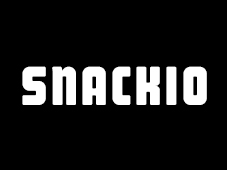
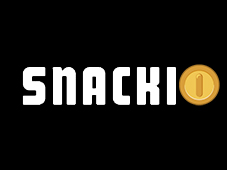
Game Introduction

Changed region(s): [[0.0925, 0.3529, 0.9868, 0.6471], [0.37, 0.3824, 0.4626, 0.4118]]

diff --git a/src/main/resources/CSS/menus.css b/src/main/resources/CSS/menus.css
@@ -24,8 +24,8 @@
     -fx-opacity: 0.6;
     -fx-text-fill: black;
     -fx-pref-height: 50;
-    -fx-max-height: 50;
-    -fx-pref-width: 130;
+    -fx-max-height: 30;
+    -fx-pref-width: 100;
 
 }
 .Button
@@ -60,3 +60,4 @@
 .s {
     -fx-background-color: black;
 }
+

diff --git a/target/classes/CSS/menus.css b/target/classes/CSS/menus.css
@@ -24,8 +24,8 @@
     -fx-opacity: 0.6;
     -fx-text-fill: black;
     -fx-pref-height: 50;
-    -fx-max-height: 50;
-    -fx-pref-width: 130;
+    -fx-max-height: 30;
+    -fx-pref-width: 100;
 
 }
 .Button
@@ -60,3 +60,4 @@
 .s {
     -fx-background-color: black;
 }
+

diff --git a/src/main/java/fr/esigelec/snackio/ui/MainMenu.java b/src/main/java/fr/esigelec/snackio/ui/MainMenu.java
@@ -25,6 +25,7 @@ import javafx.scene.image.ImageView;
 import javafx.scene.layout.AnchorPane;
 import javafx.scene.layout.BackgroundFill;
 import javafx.scene.media.AudioClip;
+import javafx.scene.shape.Rectangle;
 import javafx.stage.Stage;
 import javafx.util.Duration;
 import org.lwjgl.system.CallbackI;
@@ -38,8 +39,15 @@ import java.util.TimerTask;
 
 public class MainMenu  implements Initializable {
     @FXML
+    private AnchorPane introScene,mainAnchorPane;
+    @FXML
+    private Rectangle up_shape,down_shape;
+    @FXML
     private Button openSoloMenuButton;
     private Music leftStepSound;
+
+    @FXML
+    private ImageView coin;
     @FXML
     private Button openMultiMenuButton;
     private Stage stage;
@@ -52,12 +60,14 @@ public class MainMenu  implements Initializable {
     public int OFFSET_Y =  195;
     public int WIDTH    = 64;
     public int HEIGHT   = 64;
-    @FXML public ImageView imageViewLeft,imageViewRight;
-    public  Animation animationViewLeft,animationViewRight;
-    public TranslateTransition characterLeftEnter,characterRightEnter,characterLeftTranslateTransition,characterRightTranslateTransition,multiTranslateTransition,soloTranslateTransition;
+    @FXML public ImageView imageViewLeft,imageViewRight,imageViewIntro;
+    public  Animation animationViewLeft,animationViewRight,animationViewIntro;
+    public TranslateTransition characterLeftEnter,characterIntroEnter,characterRightEnter,characterLeftTranslateTransition,characterRightTranslateTransition,multiTranslateTransition,soloTranslateTransition;
     @Override
     public void initialize(URL location, ResourceBundle resources) {
-        setAnimation();
+        //intro();
+        mainAnchorPane.getChildren().remove(introScene);
+        outro();
         setButtonAnimations();
         openMultiMenuButton.setOnAction(this::openMultiMenu);
         openSoloMenuButton.setOnAction(this::openSoloMenu);
@@ -79,8 +89,9 @@ public class MainMenu  implements Initializable {
                         // Instantiate Network game engine to control gameplay
                         AbstractGameEngine engine = new SoloGameEngine(game, myPlayer, MapFactory.MapType.DESERT_CASTLE, 5);
                         // Instantiate a NetClient to exchange with client
-
+                        //MenuController.getStage().close();
                         engine.startGame();
+                        //MenuController.getInstance(stage).openMenu(MenuController.Menus.MULTI_MENU);
 
                     } catch (NoCharacterSetException e) {
                         Log.error(e.getMessage(), e);
@@ -135,8 +146,110 @@ public class MainMenu  implements Initializable {
         });
     }
 
-    public void setAnimation(){
+
+
+
+
+
+
+
+
+
+
+
+
+
+
+    public void intro(){
+
         IMAGE = new Image("sprites/inspector.png");
+        imageViewIntro.setImage(IMAGE);
+        imageViewIntro.setViewport(new Rectangle2D(OFFSET_X, OFFSET_Y, WIDTH, HEIGHT));
+        FadeTransition up = new FadeTransition(Duration.millis(1000), coin);
+        up.setFromValue(0);
+        up.setToValue(1);
+        up.setAutoReverse(true);
+        up.setCycleCount(500);
+        up.setDuration(Duration.INDEFINITE);
+        animationViewIntro =  new SpriteAnimation(imageViewIntro, Duration.millis(500), COUNT, COLUMNS, OFFSET_X, OFFSET_Y, WIDTH, HEIGHT);
+
+
+        animationViewIntro.setCycleCount(Animation.INDEFINITE);
+        characterIntroEnter = new TranslateTransition();
+        characterIntroEnter.setByX(coin.getLayoutX()+imageViewIntro.getFitWidth()-10);
+        characterIntroEnter.setDuration(Duration.millis(4000));
+        characterIntroEnter.setNode(imageViewIntro);
+        characterIntroEnter.setAutoReverse(true);
+        imageViewIntro.setOpacity(1);
+        characterIntroEnter.play();
+        animationViewIntro.play();
+        Timeline startTimeline = new Timeline(new KeyFrame(
+                Duration.millis(4000),
+                ae -> {
+                    characterIntroEnter.stop();
+                    animationViewIntro.stop();
+                    characterIntroEnter.setByY(coin.getFitHeight()+imageViewIntro.getY()-700);
+                    characterIntroEnter.setByX(0);
+                    animationViewIntro =  new SpriteAnimation(imageViewIntro, Duration.millis(500), COUNT, COLUMNS, OFFSET_X, 0, WIDTH, HEIGHT);
+                    animationViewIntro.setCycleCount(Animation.INDEFINITE);
+                }));
+        startTimeline.play();
+        Timeline coinAppear = new Timeline(new KeyFrame(
+                Duration.millis(7000),
+                ae -> up.play()
+                ));
+        coinAppear.play();
+        ////rajouter le gars qui se retourne dans tous les sens
+
+        Timeline timeline = new Timeline(new KeyFrame(
+                Duration.millis(8000),
+                ae -> {
+                    characterIntroEnter.play();
+                    animationViewIntro.play();
+
+                }));
+        timeline.play();
+        FadeTransition shape = new FadeTransition(Duration.millis(3000), up_shape);
+        Timeline coinDesappear = new Timeline(new KeyFrame(
+                Duration.millis(11500),
+                ae -> {
+                    up.stop();
+                    coin.setVisible(false);
+                    characterIntroEnter.stop();
+                    characterIntroEnter.setByY(-coin.getFitHeight()-150);
+                    characterIntroEnter.play();
+
+                    shape.setFromValue(1);
+                    shape.setToValue(0);
+                    shape.play();
+
+
+                }));
+        coinDesappear.play();
+        Timeline timeline2 = new Timeline(new KeyFrame(
+                Duration.millis(15000),
+                ae -> {
+                    shape.stop();
+                    characterIntroEnter.stop();
+                    animationViewIntro.stop();
+                    imageViewIntro.setVisible(false);
+                    shape.setNode(down_shape);
+                    shape.play();
+                }));
+        timeline2.play();
+        Timeline timeline3 = new Timeline(new KeyFrame(
+                Duration.millis(17000),
+                ae -> {
+                    shape.stop();
+                    mainAnchorPane.getChildren().remove(introScene);
+                    outro();
+                }));
+        timeline3.play();
+
+    }
+
+    public void outro(){
+        IMAGE = new Image("sprites/bald_man.png");
         imageViewLeft.setOpacity(0);
         imageViewRight.setOpacity(0);
 
@@ -196,8 +309,8 @@ public class MainMenu  implements Initializable {
         openMultiMenuButton.setDisable(true);
         openSoloMenuButton.setDisable(true);
         openMultiMenuButton.setStyle("-fx-opacity: 0.6");
-        imageViewLeft.setOpacity(2);
-        imageViewRight.setOpacity(2);
+        imageViewLeft.setOpacity(1);
+        imageViewRight.setOpacity(1);
         characterLeftEnter.play();
         characterRightEnter.play();
         animationViewLeft.play();

diff --git a/src/main/java/fr/esigelec/snackio/ui/MenuController.java b/src/main/java/fr/esigelec/snackio/ui/MenuController.java
@@ -19,6 +19,11 @@ public class MenuController {
         SERVER_CONFIG_MENU,
         JOIN_ROOM_MENU
     }
+    public static Stage stage;
+
+    public static Stage getStage(){
+        return stage;
+    }
 
     private static MenuController instance;
 
@@ -73,6 +78,8 @@ public class MenuController {
 
         scn.getStylesheets().add(getClass().getResource("/CSS/menus.css").toExternalForm());
         primaryStage.setScene(scn);
+        primaryStage.setResizable(false);
+        stage=primaryStage;
         primaryStage.show();
     }
 }

diff --git a/src/main/java/fr/esigelec/snackio/ui/ServerConfigMenu.java b/src/main/java/fr/esigelec/snackio/ui/ServerConfigMenu.java
@@ -137,9 +137,16 @@ public class ServerConfigMenu implements Initializable {
         });
 
 
-
-
-
+        //characterGroup.getProperties().addListener();
+        submit.setOnMouseEntered(event -> {
+            submit.setTranslateX(1);
+            submit.setStyle("-fx-opacity: 1");
+        });
+        submit.setOnMouseExited(event -> {
+            submit.setTranslateX(0);
+            submit.setStyle("-fx-opacity: 0.6");
+        });
+// Introduction
         submit.setOnAction(this::submitServer);
     }
 
